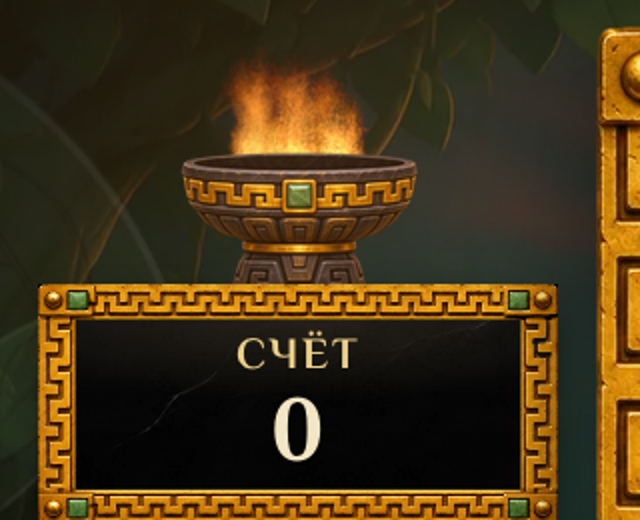
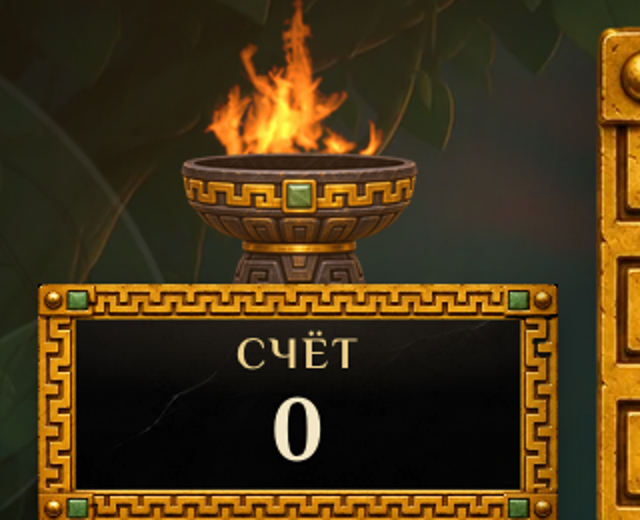
Огонь из симуляции EmberGen (CC0): рендер VDB в Blender, выбор начала цикла, новые образцы

Changed region(s): [[0.3125, 0.0, 0.625, 0.3077]]

diff --git a/art-src/phase2/fire/mock.js b/art-src/phase2/fire/mock.js
@@ -4,8 +4,9 @@ const CSS_DESK = `
 .mk-brazier{--bh:clamp(84px,20vh,200px)!important;height:var(--bh)!important;margin-bottom:calc(var(--bh) * -0.22)!important;z-index:0!important}
 .left-panel>.hud-plaque,.right-panel>.plate-btn,.right-panel>.info-pair{position:relative;z-index:2}
 .mk-bowl{width:calc(var(--bh) * 0.82)!important}
-.mk-fl{position:absolute;bottom:calc(var(--bh) * 0.42);left:50%;z-index:1;mix-blend-mode:screen}
-.mk-fl.c{height:calc(var(--bh) * 0.64);transform:translateX(-50%)}
+.mk-fl{position:absolute;bottom:calc(var(--bh) * 0.44);left:50%;z-index:1;mix-blend-mode:screen}
+.mk-fl.c{width:calc(var(--bh) * 0.72);transform:translateX(-50%)}
+.right-panel .mk-fl.c{transform:translateX(-50%) scaleX(-1)}
 .mk-fl.s1{height:calc(var(--bh) * 0.5);transform:translateX(-105%) scaleX(-1)}
 .mk-fl.s2{height:calc(var(--bh) * 0.5);transform:translateX(5%)}
 .mk-brazier{position:relative;flex:0 0 auto;height:clamp(84px,17vh,190px);margin-bottom:-22px;z-index:3;pointer-events:none}
@@ -45,8 +46,8 @@ async function open(b, w, h) {
   await p.waitForTimeout(1200);
   return p;
 }
-const bowl = 'art-src/phase2/fire/mock-bowl.png', flame = 'art-src/phase2/fire/mock-flame-21.png';
-const F = [21,5,37].map(i => 'art-src/phase2/fire/mock-flame-' + i + '.png');
+const bowl = 'art-src/phase2/fire/mock-bowl.png', flame = 'art-src/phase2/fire/mock-flame.png';
+const F = ['art-src/phase2/fire/mock-flame.png'];
 (async () => {
   const b = await firefox.launch();
   for (const [w,h] of [[1366,768],[1366,650],[1920,1080]]) {
@@ -56,7 +57,7 @@ const F = [21,5,37].map(i => 'art-src/phase2/fire/mock-flame-' + i + '.png');
       for (const sel of ['.left-panel','.right-panel']) {
         const col = document.querySelector(sel);
         const d = document.createElement('div'); d.className='mk-brazier';
-        d.innerHTML = `<img class="mk-fl s1" src="${F[1]}"><img class="mk-fl s2" src="${F[2]}"><img class="mk-fl c" src="${F[0]}"><img class="mk-bowl" src="${bowl}">`;
+        d.innerHTML = `<img class="mk-fl c" src="${F[0]}"><img class="mk-bowl" src="${bowl}">`;
         col.prepend(d);
       }
       const shell = document.querySelector('.game-shell');

diff --git a/blender/fire_vdb.py b/blender/fire_vdb.py
@@ -1,0 +1,181 @@
+"""Огонь в жаровне из готовой симуляции EmberGen (VDB, лицензия CC0).
+
+Источник: «Small Camp Fire» из бесплатного набора JangaFX
+https://jangafx.com/software/embergen/download/free-vdb-animations/
+(CC0 — Public Domain). Архив `SmallCampfireVDB.zip`, 200 кадров
+`smallCampfire_0000.vdb … _0199.vdb`, поля `flames` и `density`.
+В git не кладётся (около 400 МБ): скачать и распаковать вне проекта.
+
+Рендер идёт на чёрном фоне, дым выключен, светится только поле `flames`.
+Прозрачность и спрайт-листы делает tools/pack_fire.py.
+
+  /Applications/Blender.app/Contents/MacOS/Blender --background --factory-startup \
+      --python blender/fire_vdb.py -- --vdb <папка с smallCampfire_*.vdb> \
+      --out <папка кадров> [--render 60-131] [--size 448x384] [--samples 64] \
+      [--center 0x-1.2] [--scale 1.3] [--glow 6] [--speed 1]
+
+--center и --scale задают кадр ортокамеры (в метрах после масштаба 0.01):
+центр по X и Z и ширину кадра. --speed > 1 берёт каждый n-й кадр VDB
+(огонь быстрее), < 1 не поддерживается.
+"""
+import argparse
+import glob
+import os
+import sys
+import time
+
+import bpy
+
+
+def parse_args():
+    argv = sys.argv[sys.argv.index("--") + 1:] if "--" in sys.argv else []
+    p = argparse.ArgumentParser()
+    p.add_argument("--vdb", required=True)
+    p.add_argument("--out", required=True)
+    p.add_argument("--render", default="60-131", help="кадры VDB (номера файлов)")
+    p.add_argument("--size", default="448x384")
+    p.add_argument("--samples", type=int, default=64)
+    p.add_argument("--center", default="0x-1.2", help="центр кадра X x Z")
+    p.add_argument("--scale", type=float, default=1.3, help="ширина кадра")
+    p.add_argument("--glow", type=float, default=6.0, help="яркость пламени")
+    p.add_argument("--smoke", type=float, default=0.0, help="плотность дыма (0 — нет)")
+    p.add_argument("--only", type=int, help="отрендерить один кадр (номер VDB)")
+    p.add_argument("--view", default="Standard", help="преобразование цвета: Standard, AgX")
+    p.add_argument("--range", type=float, default=1.0, help="значение flames, которому отвечает конец градиента")
+    a = p.parse_args(argv)
+    a.render = tuple(int(x) for x in a.render.split("-"))
+    a.size = tuple(int(x) for x in a.size.split("x"))
+    a.center = tuple(float(x) for x in a.center.split("x"))
+    a.out = os.path.abspath(a.out)
+    a.vdb = os.path.abspath(a.vdb)
+    return a
+
+
+def setup_scene(a):
+    sc = bpy.context.scene
+    for ob in list(sc.objects):  # стартовые куб, лампа и камера
+        bpy.data.objects.remove(ob, do_unlink=True)
+    sc.render.engine = "CYCLES"
+    sc.cycles.samples = a.samples
+    sc.cycles.use_denoising = True
+    sc.cycles.volume_step_rate = 0.5
+    sc.cycles.volume_max_steps = 1024
+    try:
+        prefs = bpy.context.preferences.addons["cycles"].preferences
+        prefs.compute_device_type = "METAL"
+        prefs.get_devices()
+        for d in prefs.devices:
+            d.use = True
+        sc.cycles.device = "GPU"
+    except Exception as e:
+        print("GPU off:", e)
+    sc.render.resolution_x, sc.render.resolution_y = a.size
+    sc.render.resolution_percentage = 100
+    sc.render.film_transparent = False
+    sc.render.image_settings.file_format = "PNG"
+    sc.render.image_settings.color_mode = "RGB"
+    sc.render.image_settings.color_depth = "8"
+    sc.view_settings.view_transform = a.view
+    sc.view_settings.look = "None"
+    world = bpy.data.worlds.new("FireWorld")
+    world.use_nodes = True
+    bg = next(n for n in world.node_tree.nodes if n.type == "BACKGROUND")
+    bg.inputs["Color"].default_value = (0, 0, 0, 1)
+    bg.inputs["Strength"].default_value = 0.0
+    sc.world = world
+    return sc
+
+
+def fire_material(a):
+    m = bpy.data.materials.new("FireVDB")
+    m.use_nodes = True
+    m.cycles.volume_interpolation = "CUBIC"  # без ступенек на краях языков
+    nt = m.node_tree
+    for n in list(nt.nodes):
+        nt.nodes.remove(n)
+    out = nt.nodes.new("ShaderNodeOutputMaterial")
+    pv = nt.nodes.new("ShaderNodeVolumePrincipled")
+    nt.links.new(pv.outputs[0], out.inputs["Volume"])
+
+    flame = nt.nodes.new("ShaderNodeAttribute")
+    flame.attribute_name = "flames"
+    norm = nt.nodes.new("ShaderNodeMath")
+    norm.operation = "DIVIDE"
+    norm.use_clamp = True
+    norm.inputs[1].default_value = a.range
+    nt.links.new(flame.outputs["Fac"], norm.inputs[0])
+    # Цвет пламени: тёмно-красные кончики → оранжевое тело → жёлто-белая сердцевина
+    ramp = nt.nodes.new("ShaderNodeValToRGB")
+    cr = ramp.color_ramp
+    cr.interpolation = "B_SPLINE"
+    cr.elements[0].position = 0.0
+    cr.elements[0].color = (0.0, 0.0, 0.0, 1)
+    cr.elements[1].position = 1.0
+    cr.elements[1].color = (1.0, 0.95, 0.8, 1)
+    for pos, col in ((0.08, (0.25, 0.02, 0.0, 1)), (0.25, (0.85, 0.16, 0.01, 1)),
+                     (0.5, (1.0, 0.42, 0.04, 1)), (0.75, (1.0, 0.72, 0.25, 1))):
+        cr.elements.new(pos).color = col
+    nt.links.new(norm.outputs[0], ramp.inputs["Fac"])
+    nt.links.new(ramp.outputs["Color"], pv.inputs["Emission Color"])
+    st = nt.nodes.new("ShaderNodeMath")
+    st.operation = "MULTIPLY"
+    st.inputs[1].default_value = a.glow
+    nt.links.new(flame.outputs["Fac"], st.inputs[0])
+    nt.links.new(st.outputs[0], pv.inputs["Emission Strength"])
+
+    dens = nt.nodes.new("ShaderNodeAttribute")
+    dens.attribute_name = "density"
+    dm = nt.nodes.new("ShaderNodeMath")
+    dm.operation = "MULTIPLY"
+    dm.inputs[1].default_value = a.smoke
+    nt.links.new(dens.outputs["Fac"], dm.inputs[0])
+    nt.links.new(dm.outputs[0], pv.inputs["Density"])
+    pv.inputs["Color"].default_value = (0.04, 0.035, 0.03, 1)
+    pv.inputs["Blackbody Intensity"].default_value = 0.0
+    return m
+
+
+def build(sc, a):
+    files = sorted(glob.glob(os.path.join(a.vdb, "*.vdb")))
+    if not files:
+        sys.exit("нет .vdb в " + a.vdb)
+    vol = bpy.data.volumes.new("Campfire")
+    vol.filepath = files[0]
+    vol.is_sequence = True
+    vol.frame_duration = len(files)
+    vol.frame_start = 1          # кадр сцены 1 = файл _0000
+    vol.sequence_mode = "CLIP"
+    ob = bpy.data.objects.new("Campfire", vol)
+    sc.collection.objects.link(ob)
+    ob.scale = (0.01, 0.01, 0.01)
+    vol.materials.append(fire_material(a))
+
+    cam_data = bpy.data.cameras.new("FireCam")
+    cam_data.type = "ORTHO"
+    cam_data.ortho_scale = a.scale * max(1.0, a.size[1] / a.size[0])
+    cam = bpy.data.objects.new("FireCam", cam_data)
+    sc.collection.objects.link(cam)
+    cam.location = (a.center[0], -10, a.center[1])
+    cam.rotation_euler = (1.5707963, 0, 0)
+    sc.camera = cam
+
+
+def render(sc, a):
+    t = time.time()
+    first, last = (a.only, a.only) if a.only is not None else a.render
+    # Номер файла VDB n соответствует кадру сцены n + 1
+    sc.frame_start, sc.frame_end = first + 1, last + 1
+    sc.render.filepath = os.path.join(a.out, "f_")
+    bpy.ops.render.render(animation=True)
+    print("RENDER", last - first + 1, "frames", round(time.time() - t, 1), "s")
+
+
+def main():
+    a = parse_args()
+    os.makedirs(a.out, exist_ok=True)
+    sc = setup_scene(a)
+    build(sc, a)
+    render(sc, a)
+
+
+main()

diff --git a/tools/pack_fire.py b/tools/pack_fire.py
@@ -22,7 +22,7 @@ import subprocess
 import sys
 import tempfile
 
-from PIL import Image, ImageChops, ImageMath
+from PIL import Image, ImageChops, ImageMath, ImageStat
 
 ALPHA_GAMMA = 0.85
 PREVIEW_BG = (15, 26, 20)  # тёмно-зелёный фон игры
@@ -33,6 +33,22 @@ def load_frames(src):
     if not files:
         sys.exit("нет кадров f_*.png в " + src)
     return [Image.open(f).convert("RGB") for f in files]
+
+
+def frame_diff(a, b):
+    """Средняя разность двух кадров (по уменьшенной яркости)."""
+    sa, sb = (im.convert("L").resize((64, 64)) for im in (a, b))
+    return ImageStat.Stat(ImageChops.difference(sa, sb)).mean[0]
+
+
+def best_start(frames, n, k):
+    """Начало цикла, при котором хвост больше всего похож на начало."""
+    best = None
+    for s in range(0, len(frames) - n - k + 1):
+        d = sum(frame_diff(frames[s + n + i], frames[s + i]) for i in range(0, k, 3))
+        if best is None or d < best[0]:
+            best = (d, s)
+    return best[1]
 
 
 def make_loop(frames, n, k):
@@ -95,6 +111,7 @@ def main():
     p.add_argument("out")
     p.add_argument("--loop", type=int, help="длина цикла N")
     p.add_argument("--fade", type=int, default=12, help="кадров на склейку K")
+    p.add_argument("--start", default="0", help="первый кадр (номер в папке) или auto")
     p.add_argument("--frames", type=int, help="без цикла: взять первые N кадров")
     p.add_argument("--cols", type=int, default=8)
     p.add_argument("--q", type=int, default=80)
@@ -105,6 +122,14 @@ def main():
     a = p.parse_args()
 
     frames = load_frames(a.src)
+    if a.start == "auto":
+        if not a.loop:
+            sys.exit("--start auto работает только с --loop")
+        start = best_start(frames, a.loop, a.fade)
+        print("начало цикла:", start)
+    else:
+        start = int(a.start)
+    frames = frames[start:]
     if a.loop:
         frames = make_loop(frames, a.loop, a.fade)
     elif a.frames:
